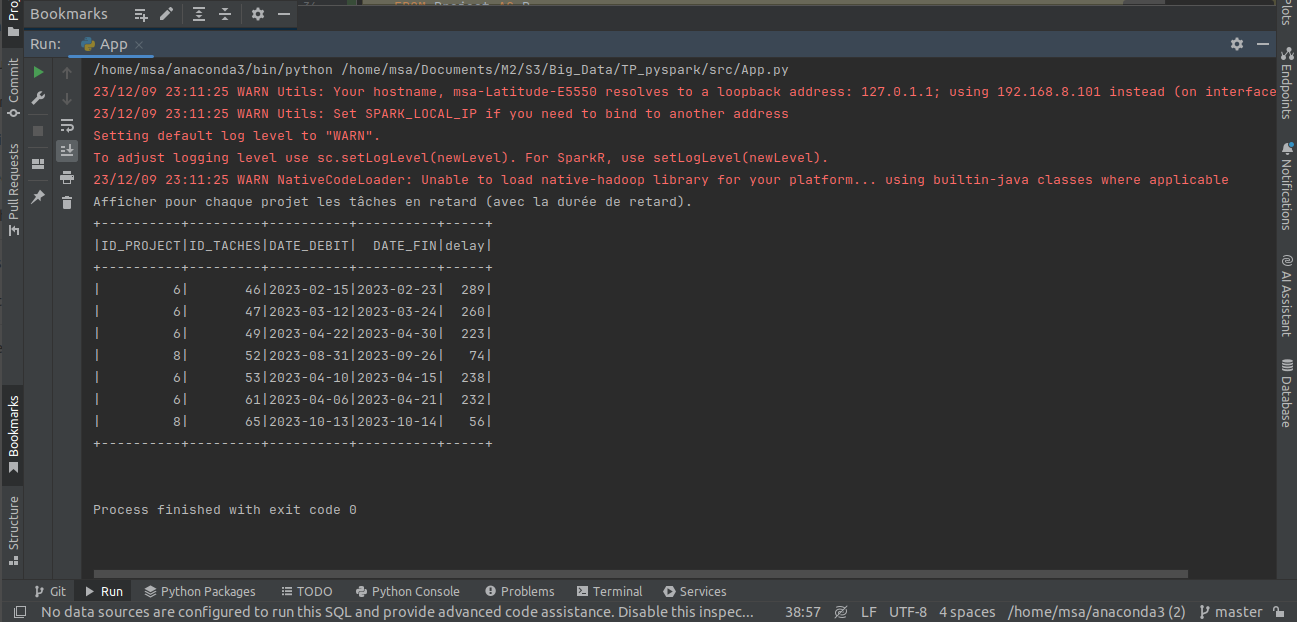
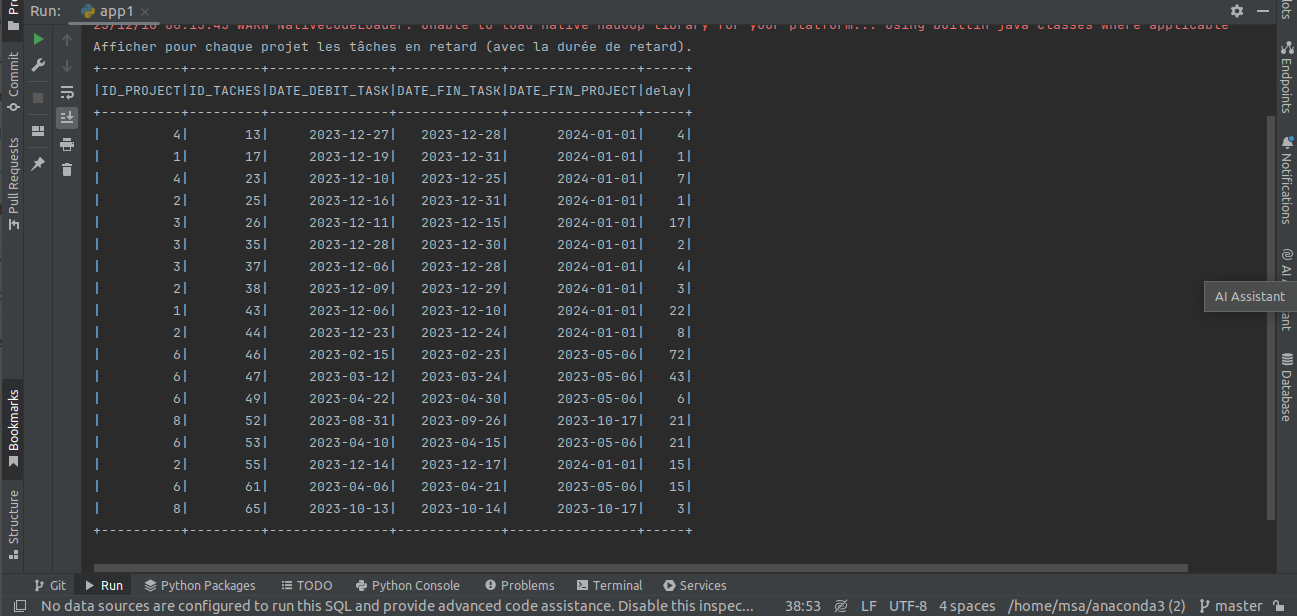
Sun Dec 10 12:15:07 AM +01 2023

diff --git a/src/app1.py b/src/app1.py
@@ -2,6 +2,7 @@ import os
 from pyspark.sql import SparkSession
 from datetime import datetime
 
+date_today = datetime.now().date()
 os.environ["JAVA_HOME"] = "/usr/lib/jvm/java-17-openjdk-amd64"
 
 spark = SparkSession.builder.appName("PySPARK").master("local[*]") \
@@ -9,16 +10,16 @@ spark = SparkSession.builder.appName("PySPARK").master("local[*]") \
     .getOrCreate()
 spark.sparkContext.setLogLevel("ERROR")
 
-
 db_properties = {
     "driver": "com.mysql.cj.jdbc.Driver",
     "url": "jdbc:mysql://localhost:3306/DB_IMOMAROC",
     "user": "root",
     "password": "1234@@@@"
 }
-query_1 = """
-SELECT * FROM  Project 
+query_1 = f"""
+    SELECT * FROM Project WHERE DATE_FIN > '{date_today}'
 """
+
 query_2 = """
 
 select P.ID_PROJECT , P.TITRE,count(T.ID_TACHES) as NUMBER from Project  as P 
@@ -29,18 +30,24 @@ select P.ID_PROJECT , P.TITRE,count(T.ID_TACHES) as NUMBER from Project  as P
 """
 
 
+query_3 = f"""
+    SELECT P.ID_PROJECT, T.ID_TACHES, T.DATE_DEBIT as DATE_DEBIT_TASK , T.DATE_FIN as DATE_FIN_TASK,P.DATE_FIN as DATE_FIN_PROJECT,
+        datediff(P.DATE_FIN, T.DATE_FIN) AS delay
+    FROM Project AS P
+    INNER JOIN TACHES AS T ON P.ID_PROJECT = T.ID_PROJECT
+    WHERE T.DATE_FIN < P.DATE_FIN AND T.TERMINE = 0 
+"""
+
 
 df_query_1 = spark.read.format("jdbc").options(**db_properties).option("query", query_1).load()
 df_query_2 = spark.read.format("jdbc").options(**db_properties).option("query", query_2).load()
-df_query_2.show()
-    # .option("dbtable", "Project").load()
+df_query_3= spark.read.format("jdbc").options(**db_properties).option("query", query_3).load()
+
+# print(" Afficher les projets en cours de réalisation.")
+# df_query_1.show()
+#
 # print("Afficher pour chaque projet, le nombre de tâches dont la durée dépasse un mois ")
-# projctesDf.show()
+# df_query_2.show()
 
-'''
-filtred_project = projctesDf.filter(projctesDf['DATE_FIN']> datetime.now().date())
-print(" Afficher les projets en cours de réalisation.")
-filtred_project.show()
-
-'''
-
+print("Afficher pour chaque projet les tâches en retard (avec la durée de retard).")
+df_query_3.show()

diff --git a/src/app2.py b/src/app2.py
@@ -1,0 +1,15 @@
+from pyspark.sql import SparkSession
+from pyspark.sql.functions import col
+
+# Initialisation de la session Spark
+spark = SparkSession.builder.appName("TopCitiesByRevenue").getOrCreate()
+
+# Chargement des données JSON dans un DataFrame
+sales_data = spark.read.json("chemin_vers_sales_data.json")
+
+# Calcul du revenu total par ville
+revenue_per_city = sales_data.groupBy("city").sum("revenue").withColumnRenamed("sum(revenue)", "total_revenue")
+
+# Affichage des deux premières villes avec les revenus les plus élevés
+top_cities = revenue_per_city.orderBy(col("total_revenue").desc()).limit(2)
+top_cities.show()
